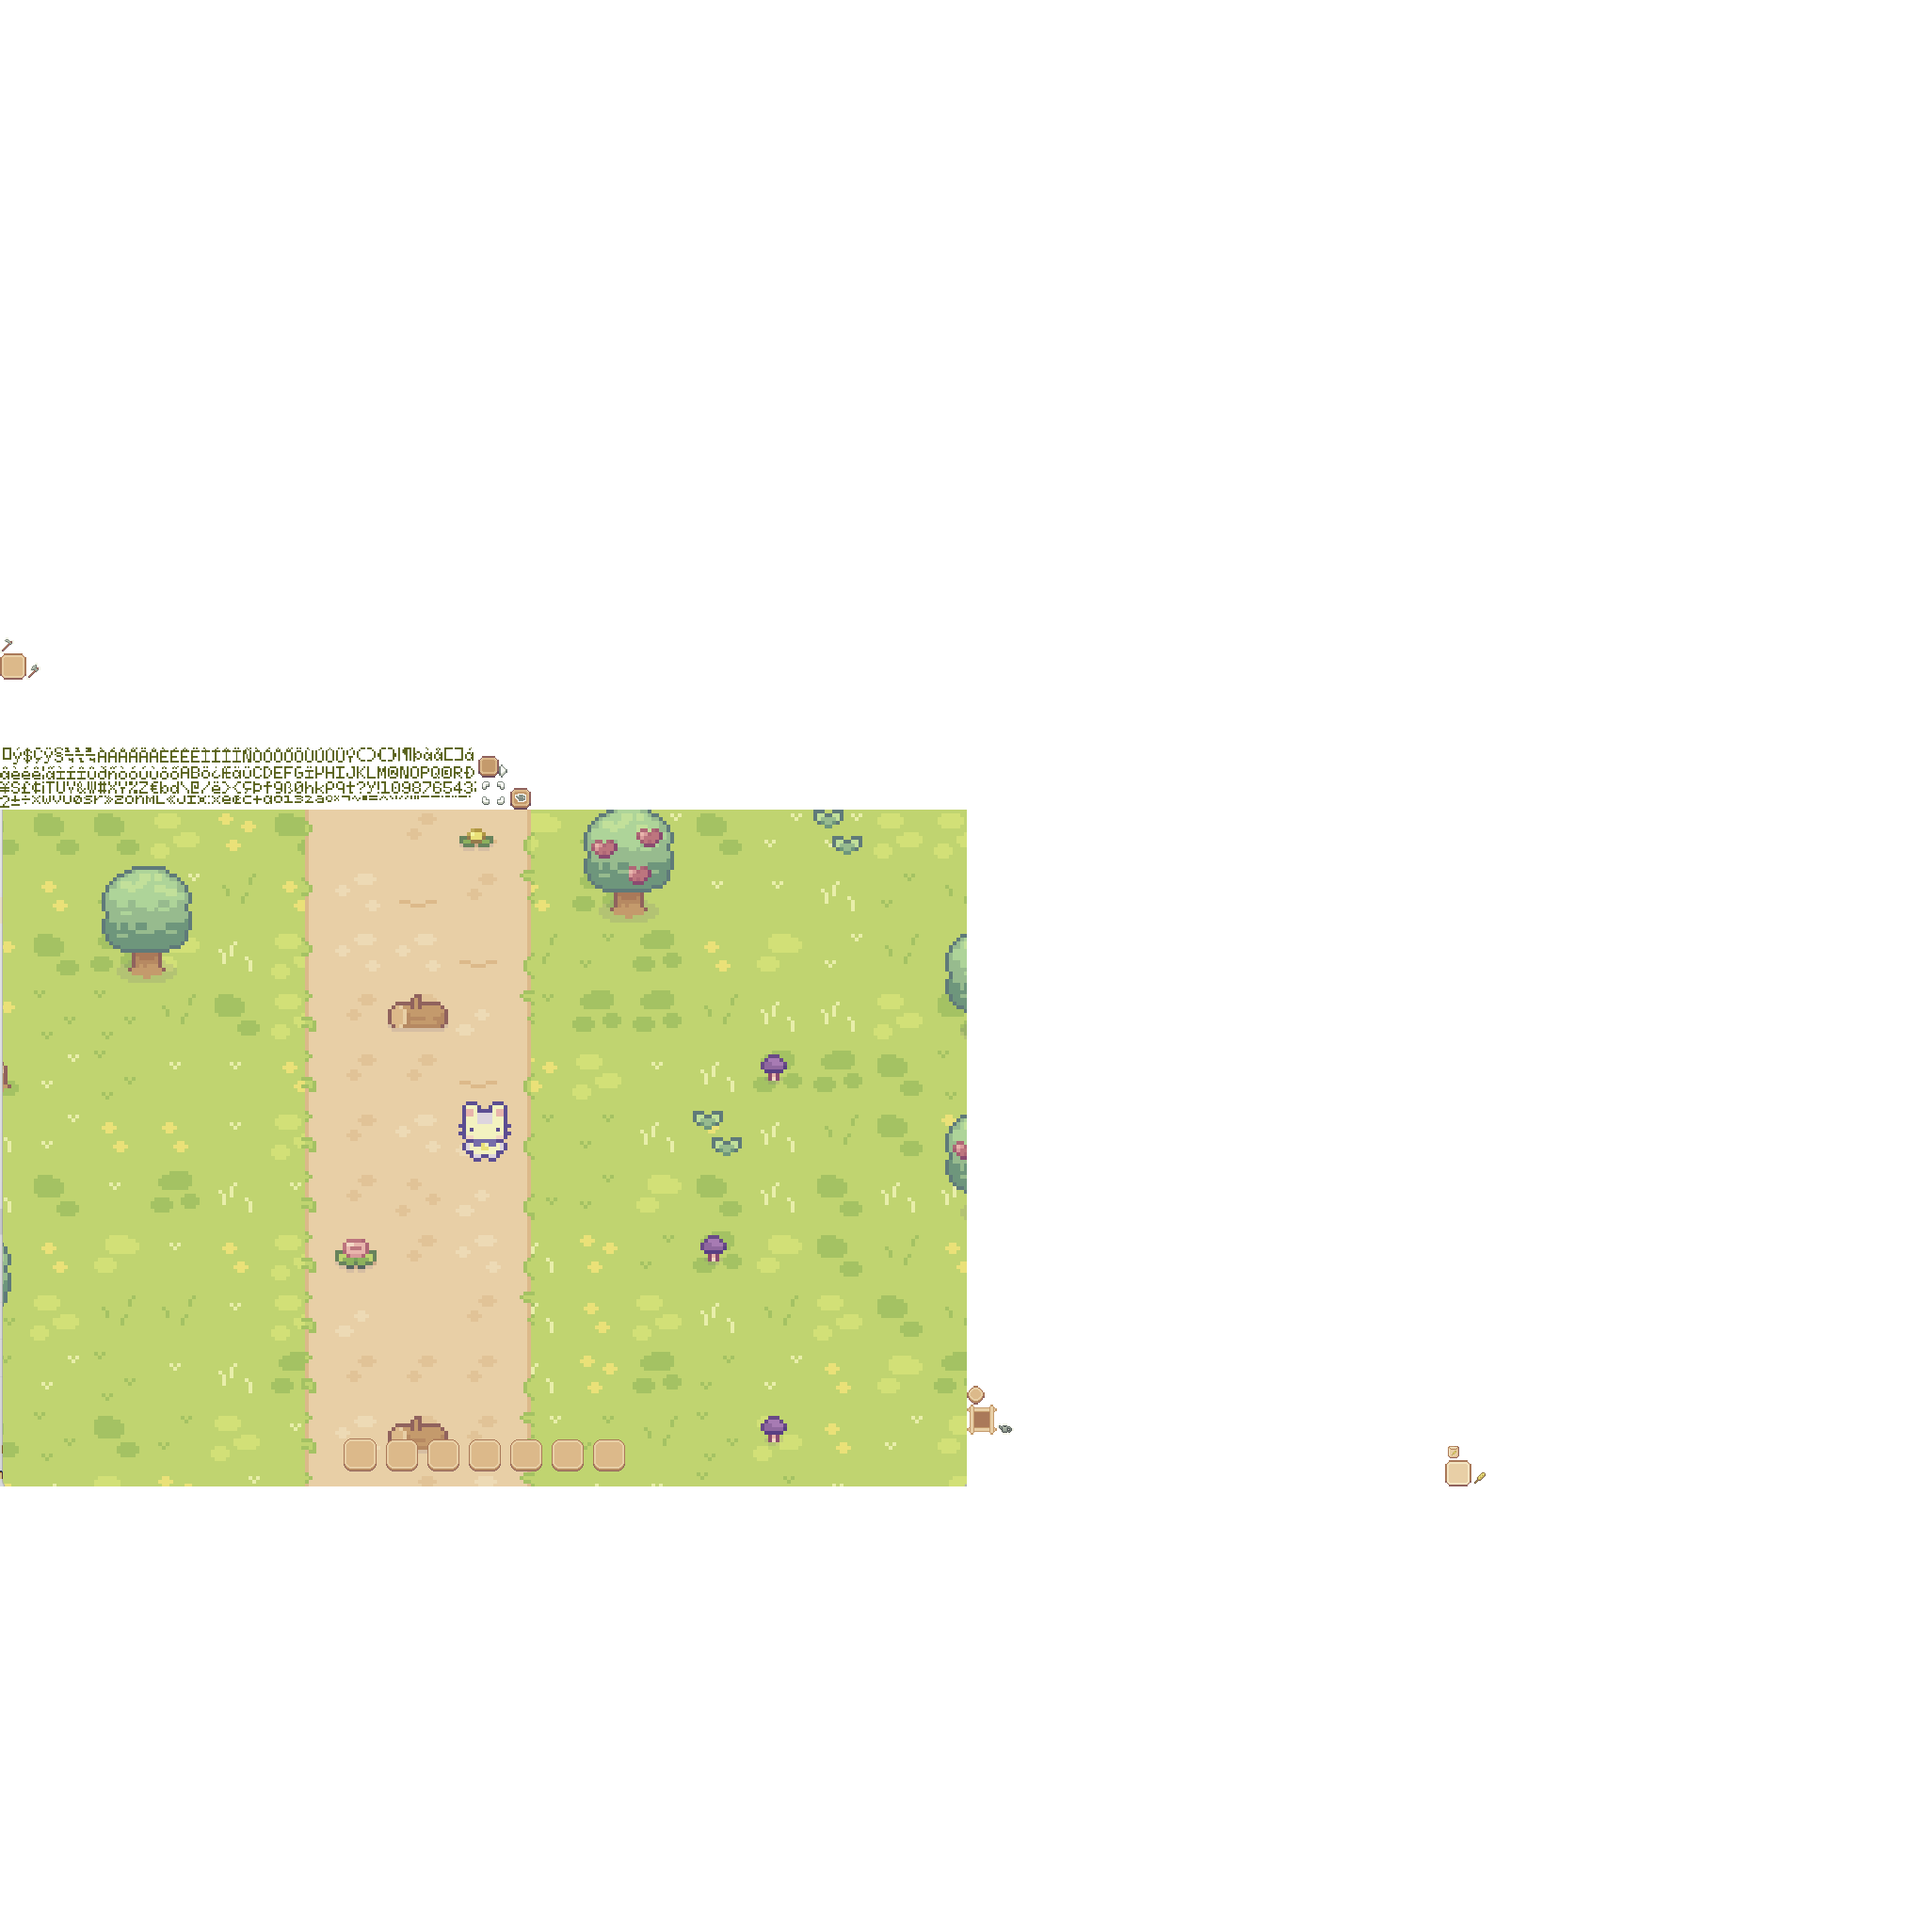
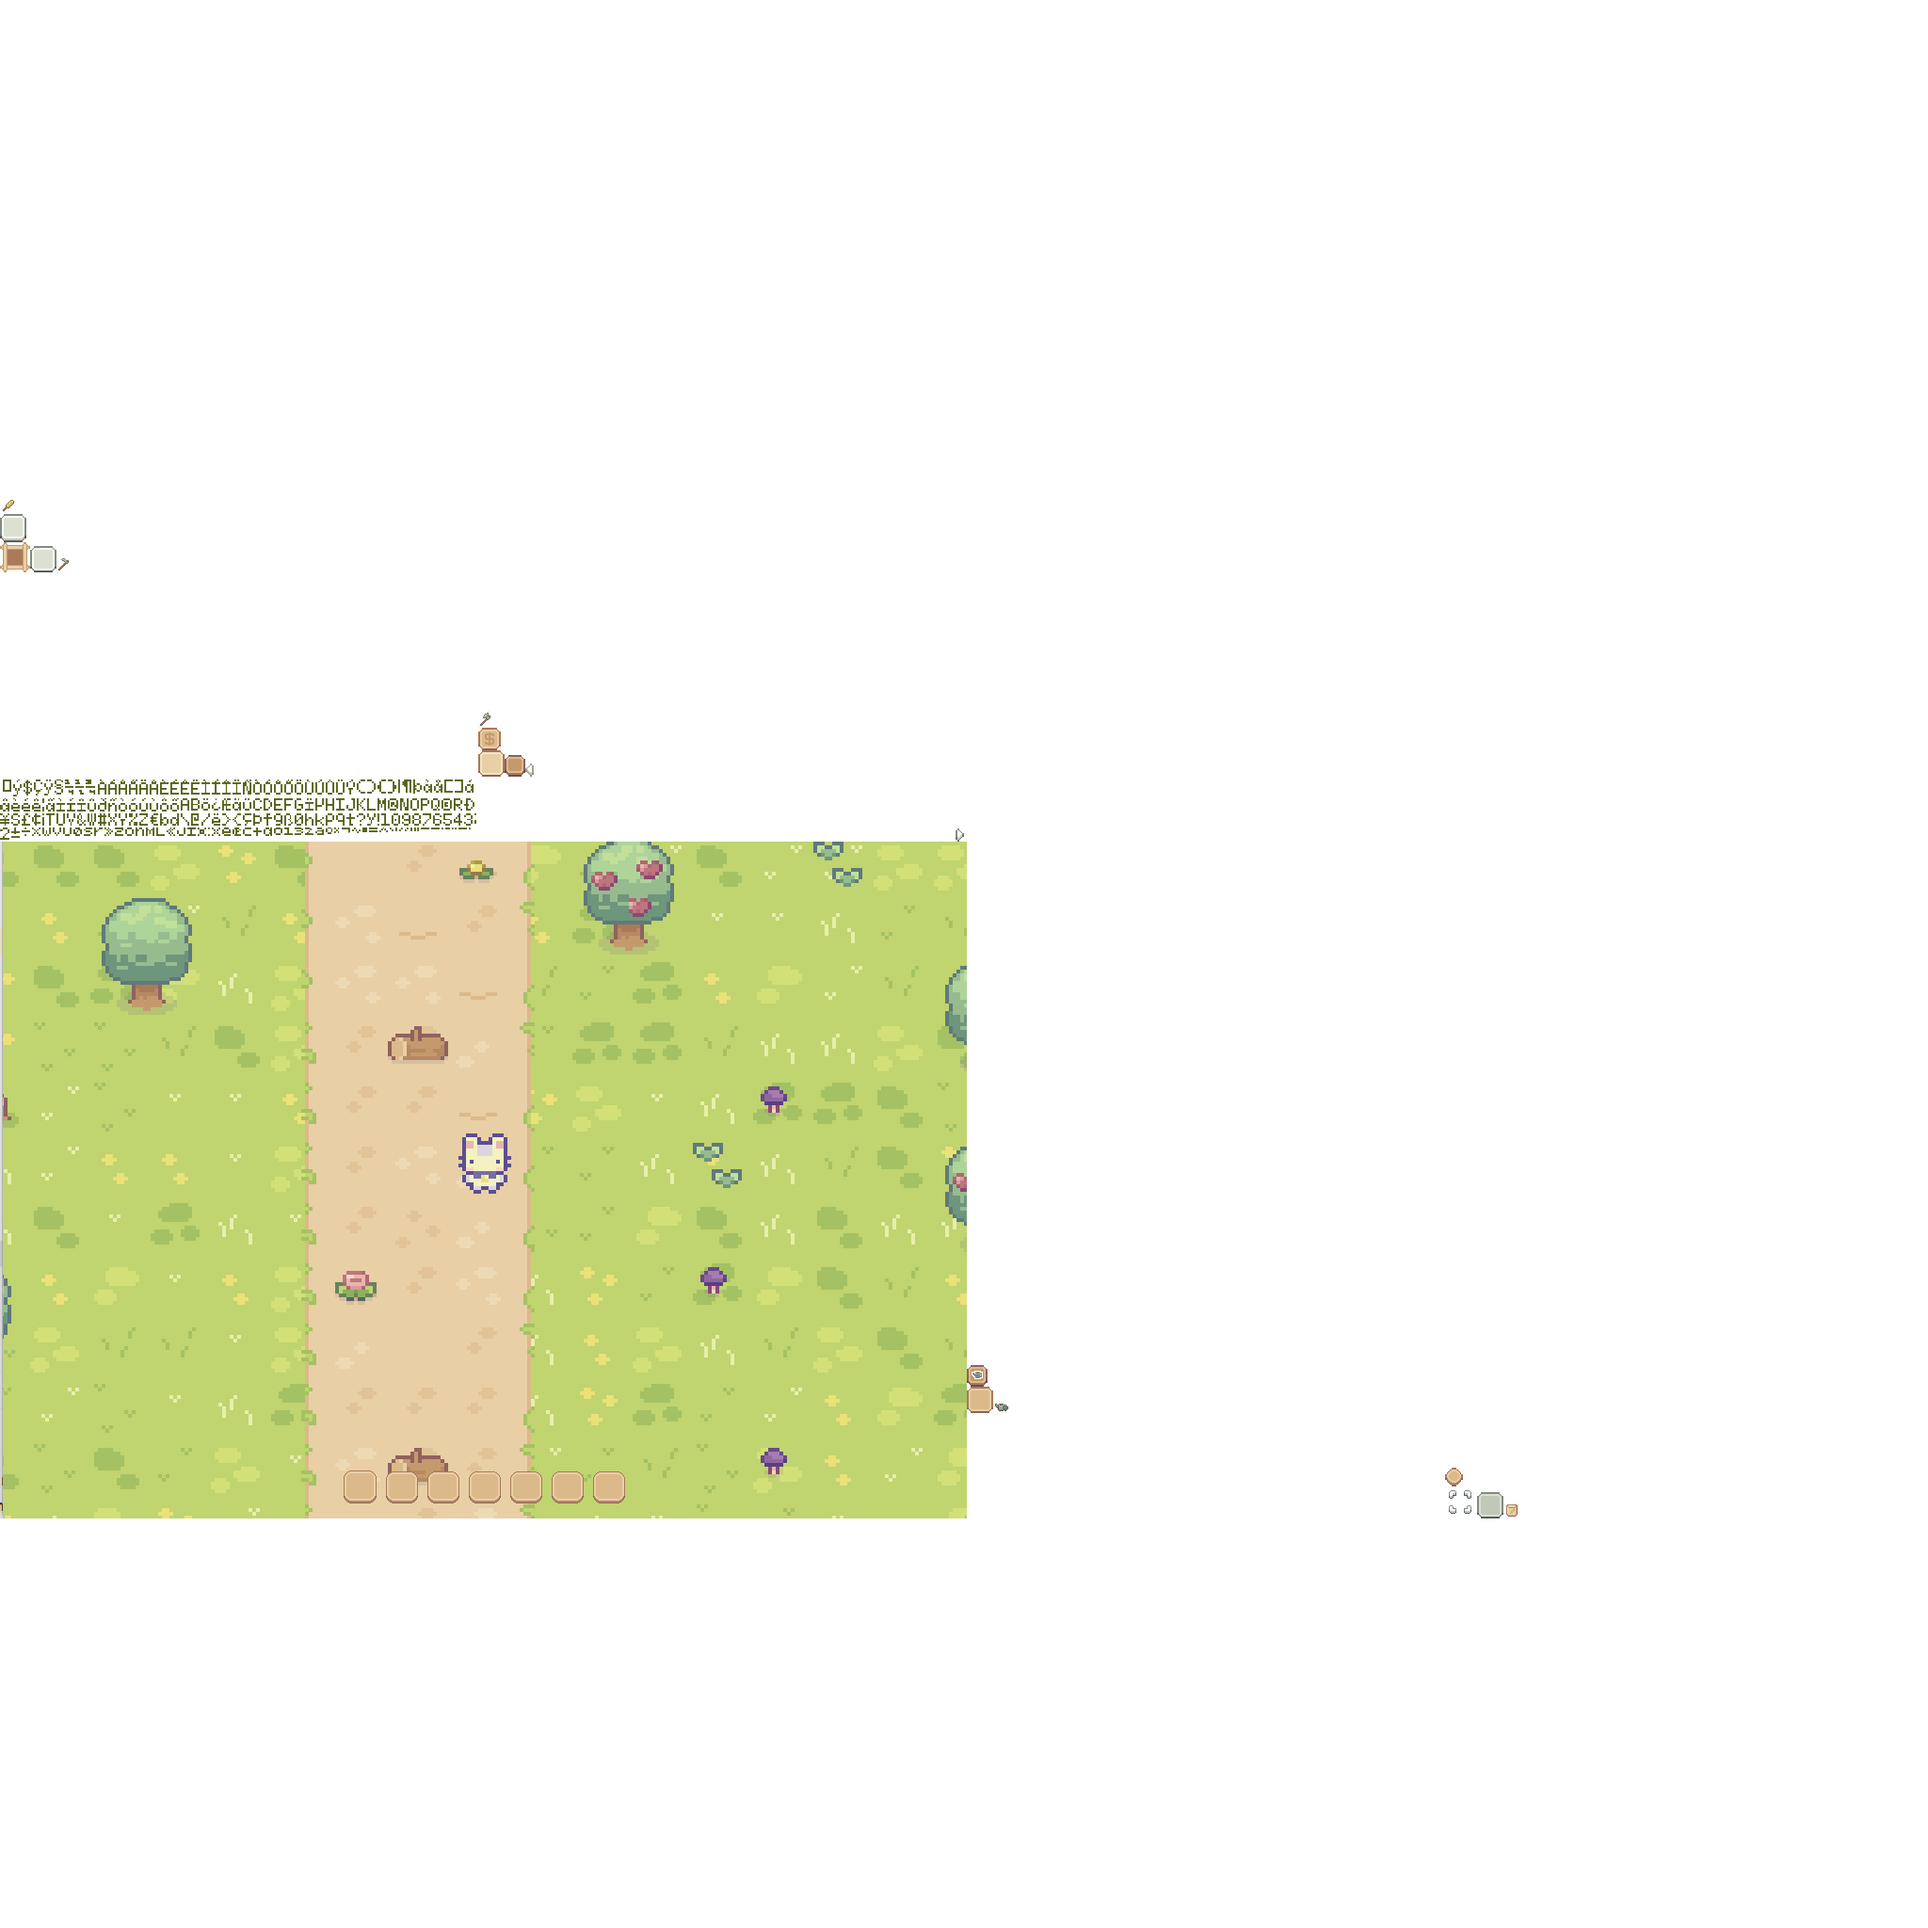
feat: shopping ui

diff --git a/core/src/com/pgj/s2bplantsimulator/model/MovingImage.java b/core/src/com/pgj/s2bplantsimulator/model/MovingImage.java
@@ -64,16 +64,19 @@ public class MovingImage extends Image {
                 if(isNewLocation == false || (isNewLocation == true && actor.isVisible() == true)){
                     Table slots = (Table) actor;
                     for(Cell  cell : slots.getCells()){
-                        MovingImageContainer imageContainer = (MovingImageContainer) cell.getActor();
-                        if(imageContainer.getActor() == null){
-                            Vector2 pos = StageUltis.getInstance().getStagePos(imageContainer);
-                            if((pos.x < this.getX())
-                                    && (this.getX() <= pos.x + 50)
-                                    && (pos.y <= this.getY())
-                                    && (this.getY() <= pos.y + 50)){
-                                imageContainer.setActor(this);
-                                this.setPosition(0, 0);
-                                return true;
+
+                        if(cell.getActor() instanceof MovingImageContainer){
+                            MovingImageContainer imageContainer = (MovingImageContainer) cell.getActor();
+                            if(imageContainer.getActor() == null){
+                                Vector2 pos = StageUltis.getInstance().getStagePos(imageContainer);
+                                if((pos.x < this.getX())
+                                        && (this.getX() <= pos.x + 50)
+                                        && (pos.y <= this.getY())
+                                        && (this.getY() <= pos.y + 50)){
+                                    imageContainer.setActor(this);
+                                    this.setPosition(0, 0);
+                                    return true;
+                                }
                             }
                         }
                     }

diff --git a/core/src/com/pgj/s2bplantsimulator/view/ItemHolderBoard.java b/core/src/com/pgj/s2bplantsimulator/view/ItemHolderBoard.java
@@ -8,6 +8,7 @@ import com.badlogic.gdx.scenes.scene2d.ui.Table;
 import com.pgj.s2bplantsimulator.model.Item;
 import com.pgj.s2bplantsimulator.model.MovingImage;
 import com.pgj.s2bplantsimulator.screens.MainGame;
+import com.pgj.s2bplantsimulator.ultis.ResourceLoader;
 
 import java.util.List;
 import java.util.Map;
@@ -20,7 +21,7 @@ public abstract class ItemHolderBoard implements UI {
     private Stage stage;
     public ItemHolderBoard(MainGame mainGame){
         this.hud = mainGame.getHud();
-        this.skin = new Skin(Gdx.files.internal("Skin/ui_skin.json"));
+        this.skin = ResourceLoader.getInstance().getSkin();
         itemPanel = new Table();
         this.stage = hud.getStage();
         stage.addActor(itemPanel);
@@ -29,10 +30,13 @@ public abstract class ItemHolderBoard implements UI {
     @Override
     public void update(float dt) {
         for(Cell cell : itemPanel.getCells()){
-            MovingImageContainer movingImageContainer = (MovingImageContainer) cell.getActor();
-            if(movingImageContainer.getActor() != null){
-                movingImageContainer.update(dt);
+            if(cell.getActor() instanceof MovingImageContainer){
+                MovingImageContainer movingImageContainer = (MovingImageContainer) cell.getActor();
+                if(movingImageContainer.getActor() != null){
+                    movingImageContainer.update(dt);
+                }
             }
+
         }
         updateItemPanel();
     }

diff --git a/core/src/com/pgj/s2bplantsimulator/view/MoneyUI.java b/core/src/com/pgj/s2bplantsimulator/view/MoneyUI.java
@@ -1,0 +1,35 @@
+package com.pgj.s2bplantsimulator.view;
+
+import com.badlogic.gdx.Gdx;
+import com.badlogic.gdx.scenes.scene2d.Stage;
+import com.badlogic.gdx.scenes.scene2d.ui.Image;
+import com.badlogic.gdx.scenes.scene2d.ui.Label;
+import com.badlogic.gdx.scenes.scene2d.ui.Skin;
+import com.badlogic.gdx.scenes.scene2d.ui.Table;
+import com.badlogic.gdx.utils.Align;
+import com.badlogic.gdx.utils.Scaling;
+import com.pgj.s2bplantsimulator.screens.MainGame;
+
+public class MoneyUI {
+    private Skin skin = new Skin(Gdx.files.internal("Skin/ui_skin.json"));
+    Table table;
+    Stage stage;
+    private Label moneyLabel;
+    private int POS_X = 10;
+    private int POS_Y = Gdx.graphics.getHeight() - 30;
+    public MoneyUI(MainGame mainGame){
+        table = new Table();
+        stage = mainGame.getHud().getStage();
+        stage.addActor(table);
+    }
+    public void show(){
+        table.setPosition(POS_X, POS_Y);
+        table.align(Align.left);
+        Image image = new Image(skin.getDrawable("money"));
+        image.setScaling(Scaling.fit);
+        table.add(image).size(50, 50);
+        moneyLabel = new Label("1000", skin.get("moneyLabel", Label.LabelStyle.class));
+
+        table.add(moneyLabel).padLeft(10);
+    }
+}

diff --git a/core/src/com/pgj/s2bplantsimulator/view/HUD.java b/core/src/com/pgj/s2bplantsimulator/view/HUD.java
@@ -13,22 +13,30 @@ public class HUD implements Screen {
     private MainGame mainGame;
     private ChestBoard chestUI;
     private PlayerEquipmentBoard playerEquipmentUI;
-
+    private SellWindow sellWindow;
+    private BuyWindow buyWindow;
+    private MoneyUI moneyUI;
 
     public HUD(MainGame mainGame){
         this.mainGame = mainGame;
         stage = new Stage(new ScreenViewport());
 //        stage.setDebugAll(true);
-
         Gdx.input.setInputProcessor(stage);
         skin = new Skin(Gdx.files.internal("Skin/ui_skin.json"));
     }
     public void show() {
         chestUI = new ChestBoard(mainGame);
         playerEquipmentUI = new PlayerEquipmentBoard(mainGame);
+        sellWindow = new SellWindow(mainGame);
+        buyWindow = new BuyWindow(mainGame);
+        MoneyUI moneyUI = new MoneyUI(mainGame);
 
+        sellWindow.show();
+        buyWindow.show();
         playerEquipmentUI.show();
         chestUI.show();
+        moneyUI.show();
+
     }
 
     public void render(float dt) {
@@ -70,6 +78,8 @@ public class HUD implements Screen {
 
         playerEquipmentUI.update(dt);
         chestUI.update(dt);
+        sellWindow.update(dt);
+        buyWindow.udpate(dt);
     }
 
     public Skin getSkin() {
